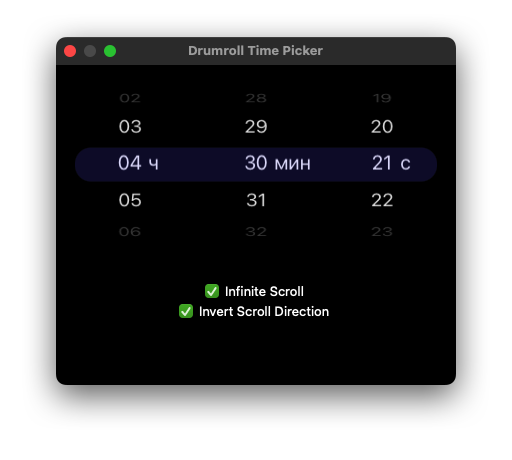
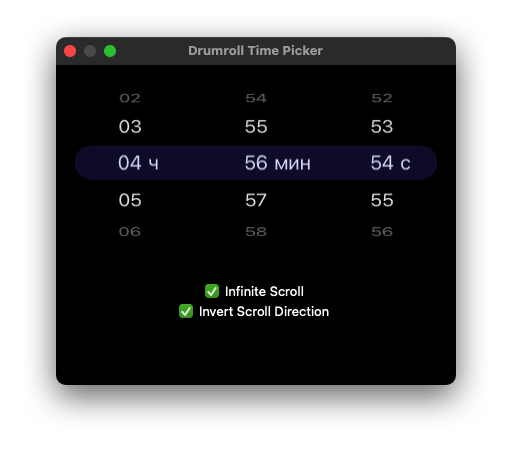
Fix double opacity bug, redundant updatePositions calls, setup background, setTime validation, AppDelegate cleanup

diff --git a/DatePickerWithoutStoryboard/AppDelegate.swift b/DatePickerWithoutStoryboard/AppDelegate.swift
@@ -15,52 +15,51 @@ class AppDelegate: NSObject, NSApplicationDelegate {
     var invertScrollToggle: NSButton!
 
     func applicationDidFinishLaunching(_ notification: Notification) {
-           window = NSWindow(
-               contentRect: NSRect(x: 0, y: 0, width: 400, height: 320),
-               styleMask: [.titled, .closable, .resizable],
-               backing: .buffered,
-               defer: false
-           )
-           window.center()
-           window.title = "Drumroll Time Picker"
-           window.makeKeyAndOrderFront(nil)
+        window = NSWindow(
+            contentRect: NSRect(x: 0, y: 0, width: 400, height: 320),
+            styleMask: [.titled, .closable, .resizable],
+            backing: .buffered,
+            defer: false
+        )
+        window.center()
+        window.title = "Drumroll Time Picker"
+        window.makeKeyAndOrderFront(nil)
 
-           picker.showsSeconds = true
-           picker.translatesAutoresizingMaskIntoConstraints = false
+        picker.translatesAutoresizingMaskIntoConstraints = false
 
-           infiniteScrollToggle = NSButton(checkboxWithTitle: "", target: self, action: #selector(toggleInfiniteScroll(_:)))
-           infiniteScrollToggle.state = .on
-           infiniteScrollToggle.translatesAutoresizingMaskIntoConstraints = false
-           let infAttrs: [NSAttributedString.Key: Any] = [.foregroundColor: NSColor.white]
-           infiniteScrollToggle.attributedTitle = NSAttributedString(string: "Infinite Scroll", attributes: infAttrs)
+        infiniteScrollToggle = NSButton(checkboxWithTitle: "", target: self, action: #selector(toggleInfiniteScroll(_:)))
+        infiniteScrollToggle.state = .on
+        infiniteScrollToggle.translatesAutoresizingMaskIntoConstraints = false
+        let infAttrs: [NSAttributedString.Key: Any] = [.foregroundColor: NSColor.white]
+        infiniteScrollToggle.attributedTitle = NSAttributedString(string: "Infinite Scroll", attributes: infAttrs)
 
-           invertScrollToggle = NSButton(checkboxWithTitle: "", target: self, action: #selector(toggleInvertScroll(_:)))
-           invertScrollToggle.state = .on
-           invertScrollToggle.translatesAutoresizingMaskIntoConstraints = false
-           let invAttrs: [NSAttributedString.Key: Any] = [.foregroundColor: NSColor.white]
-           invertScrollToggle.attributedTitle = NSAttributedString(string: "Invert Scroll Direction", attributes: invAttrs)
-           picker.isScrollDirectionInverted = true
+        invertScrollToggle = NSButton(checkboxWithTitle: "", target: self, action: #selector(toggleInvertScroll(_:)))
+        invertScrollToggle.state = .on
+        invertScrollToggle.translatesAutoresizingMaskIntoConstraints = false
+        let invAttrs: [NSAttributedString.Key: Any] = [.foregroundColor: NSColor.white]
+        invertScrollToggle.attributedTitle = NSAttributedString(string: "Invert Scroll Direction", attributes: invAttrs)
+        picker.isScrollDirectionInverted = true
 
-           guard let contentView = window.contentView else { return }
-           contentView.wantsLayer = true
-           contentView.layer?.backgroundColor = NSColor.black.cgColor
-           contentView.addSubview(picker)
-           contentView.addSubview(infiniteScrollToggle)
-           contentView.addSubview(invertScrollToggle)
+        guard let contentView = window.contentView else { return }
+        contentView.wantsLayer = true
+        contentView.layer?.backgroundColor = NSColor.black.cgColor
+        contentView.addSubview(picker)
+        contentView.addSubview(infiniteScrollToggle)
+        contentView.addSubview(invertScrollToggle)
 
-           NSLayoutConstraint.activate([
-               picker.centerXAnchor.constraint(equalTo: contentView.centerXAnchor),
-               picker.topAnchor.constraint(equalTo: contentView.topAnchor, constant: 20),
-               picker.widthAnchor.constraint(equalToConstant: 370),
-               picker.heightAnchor.constraint(equalToConstant: 190),
+        NSLayoutConstraint.activate([
+            picker.centerXAnchor.constraint(equalTo: contentView.centerXAnchor),
+            picker.topAnchor.constraint(equalTo: contentView.topAnchor, constant: 20),
+            picker.widthAnchor.constraint(equalToConstant: 370),
+            picker.heightAnchor.constraint(equalToConstant: 190),
 
-               infiniteScrollToggle.centerXAnchor.constraint(equalTo: contentView.centerXAnchor),
-               infiniteScrollToggle.topAnchor.constraint(equalTo: picker.bottomAnchor, constant: 8),
+            infiniteScrollToggle.centerXAnchor.constraint(equalTo: contentView.centerXAnchor),
+            infiniteScrollToggle.topAnchor.constraint(equalTo: picker.bottomAnchor, constant: 8),
 
-               invertScrollToggle.centerXAnchor.constraint(equalTo: contentView.centerXAnchor),
-               invertScrollToggle.topAnchor.constraint(equalTo: infiniteScrollToggle.bottomAnchor, constant: 4),
-           ])
-       }
+            invertScrollToggle.centerXAnchor.constraint(equalTo: contentView.centerXAnchor),
+            invertScrollToggle.topAnchor.constraint(equalTo: infiniteScrollToggle.bottomAnchor, constant: 4),
+        ])
+    }
 
     @objc private func toggleInfiniteScroll(_ sender: NSButton) {
         picker.isInfiniteScrollEnabled = sender.state == .on
@@ -70,8 +69,7 @@ class AppDelegate: NSObject, NSApplicationDelegate {
         picker.isScrollDirectionInverted = sender.state == .on
     }
 
-        func applicationShouldTerminateAfterLastWindowClosed(_ sender: NSApplication) -> Bool {
-            return true
-        }
+    func applicationShouldTerminateAfterLastWindowClosed(_ sender: NSApplication) -> Bool {
+        return true
+    }
 }
-

diff --git a/DatePickerWithoutStoryboard/DrumrollComponent.swift b/DatePickerWithoutStoryboard/DrumrollComponent.swift
@@ -137,7 +137,7 @@ public class DrumrollComponent: NSView {
 
     private func setup() {
         wantsLayer = true
-        layer?.backgroundColor = NSColor.black.cgColor
+        layer?.backgroundColor = componentBackgroundColor?.cgColor ?? NSColor.black.cgColor
 
         for item in repeatedItems {
             let textLayer = CATextLayer()
@@ -250,7 +250,7 @@ public class DrumrollComponent: NSView {
 
             let t = abs(angle) / maxAngle
             layer.opacity = Float(max(0, 1.0 - pow(t, 3)))
-            layer.foregroundColor = textColor.withAlphaComponent(CGFloat(layer.opacity)).cgColor
+            layer.foregroundColor = textColor.cgColor
         }
 
         if let unitLayer {
@@ -299,10 +299,6 @@ public class DrumrollComponent: NSView {
         } else {
             scrollOffset = clampToMiddle(scrollOffset)
         }
-        CATransaction.begin()
-        CATransaction.setDisableActions(true)
-        updatePositions()
-        CATransaction.commit()
 
         let now = Date()
         lastDragPoints.append((now, point.y))
@@ -346,10 +342,6 @@ public class DrumrollComponent: NSView {
         } else {
             scrollOffset = clampToMiddle(scrollOffset)
         }
-        CATransaction.begin()
-        CATransaction.setDisableActions(true)
-        updatePositions()
-        CATransaction.commit()
 
         pendingSnapTimer?.invalidate()
         if event.momentumPhase == .ended || event.phase == .ended {

diff --git a/DatePickerWithoutStoryboard/DrumrollTimePicker.swift b/DatePickerWithoutStoryboard/DrumrollTimePicker.swift
@@ -59,10 +59,13 @@ public class DrumrollTimePicker: NSView {
     }
 
     public func setTime(hour: Int, minute: Int, second: Int? = nil, animated: Bool = true) {
-        hourPicker.selectItem(String(format: "%02d", hour), animated: animated)
-        minutePicker.selectItem(String(format: "%02d", minute), animated: animated)
+        let h = max(0, min(23, hour))
+        let m = max(0, min(59, minute))
+        hourPicker.selectItem(String(format: "%02d", h), animated: animated)
+        minutePicker.selectItem(String(format: "%02d", m), animated: animated)
         if showsSeconds {
-            secondPicker.selectItem(String(format: "%02d", second ?? 0), animated: animated)
+            let s = max(0, min(59, second ?? 0))
+            secondPicker.selectItem(String(format: "%02d", s), animated: animated)
         }
     }
 